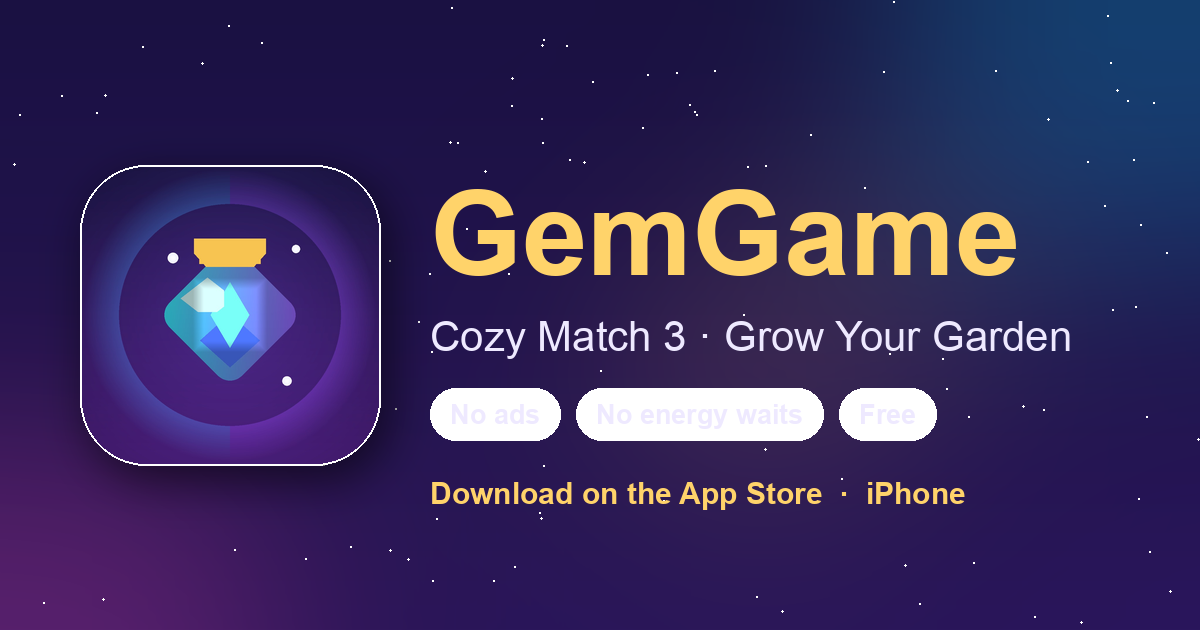
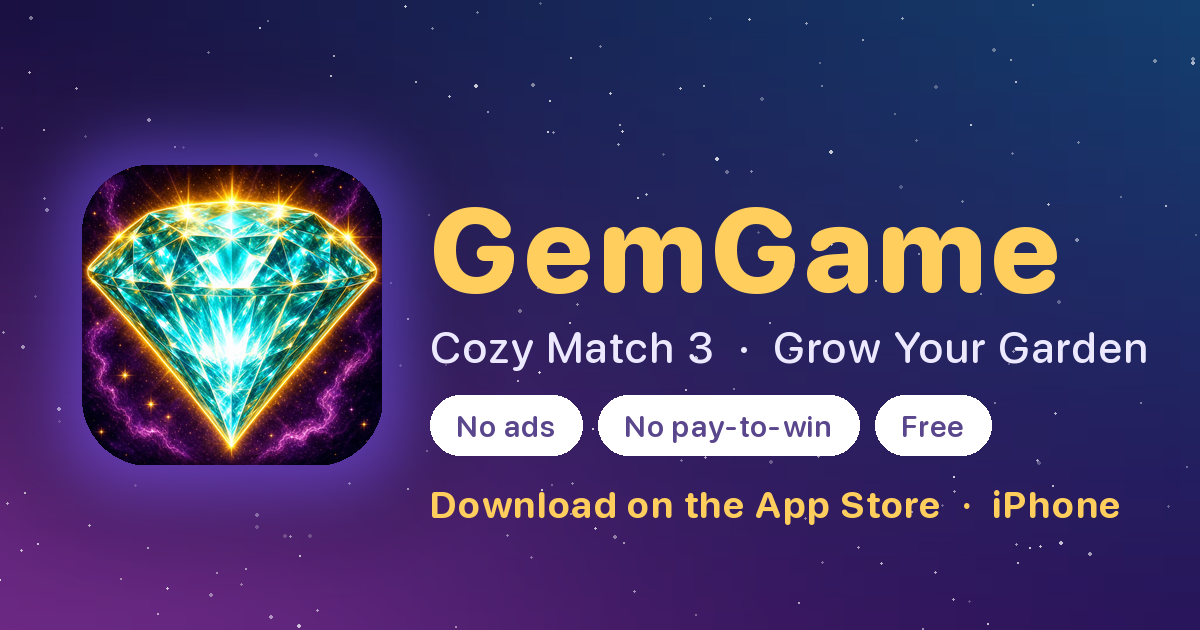
feat: Garden 2.0 site refresh — updates entry, garden page, honest dark OG cards
The 1.7.0 "Garden 2.0" app release turns the starlit garden into one living,
explorable scene (Map/Focus tabs gone), adds landmark tap-to-inspect, a golden
Next Step guide, per-district ambient celebrations, an affordable-upgrade badge
on the Level Map, full VoiceOver support, and a gemgame://garden deep link. The
public site needed to reflect that so search and social previews match the app.

- updates: new v1.7.0 Garden 2.0 release entry at the top; refreshed page
  descriptions + JSON-LD dateModified.
- garden: new "One living garden you explore" section plus intro/district copy
  describing the explorable scene, Next Step guide, celebrations and VoiceOver.
- OG cards (landing, garden, updates): regenerated to the current dark Galactic
  Casino theme with the live App Store icon, and — importantly — dropped the
  false "No energy" badge (the game has a lives gate) for honest "No pay-to-win".
- garden: removed borderline "online or off" offline claim.
- sitemap: bumped lastmod for the three touched URLs.

diff --git a/gemgame/garden/index.html b/gemgame/garden/index.html
@@ -4,7 +4,7 @@
 <meta charset="utf-8">
 <meta name="viewport" content="width=device-width, initial-scale=1">
 <title>GemGame Garden: Match 3 With Garden Building &amp; Stars</title>
-<meta name="description" content="Discover the GemGame garden: earn stars from match-3 levels to restore celestial districts like Starlight Promenade, then bank perks that boost your puzzle runs.">
+<meta name="description" content="Discover the GemGame garden: explore one living, starlit scene where stars from match-3 levels restore celestial districts like Starlight Promenade and bank perks that boost your puzzle runs.">
 <meta name="robots" content="index,follow,max-image-preview:large,max-snippet:-1">
 <link rel="canonical" href="https://georgepwall1991.github.io/fleet-commander-site/gemgame/garden/">
   <link rel="alternate" hreflang="en" href="https://georgepwall1991.github.io/fleet-commander-site/gemgame/garden/">
@@ -19,14 +19,14 @@
 <meta property="og:locale" content="en_US">
 <meta property="og:site_name" content="GemGame">
 <meta property="og:title" content="GemGame Garden: Match 3 With Garden Building &amp; Stars">
-<meta property="og:description" content="Discover the GemGame garden: earn stars from match-3 levels to restore celestial districts like Starlight Promenade, then bank perks that boost your puzzle runs.">
+<meta property="og:description" content="Discover the GemGame garden: explore one living, starlit scene where stars from match-3 levels restore celestial districts like Starlight Promenade and bank perks that boost your puzzle runs.">
 <meta property="og:url" content="https://georgepwall1991.github.io/fleet-commander-site/gemgame/garden/">
 <meta property="og:image" content="https://georgepwall1991.github.io/fleet-commander-site/gemgame/assets/og/garden.png">
 <meta property="og:image:width" content="1200">
 <meta property="og:image:height" content="630">
 <meta name="twitter:card" content="summary_large_image">
 <meta name="twitter:title" content="GemGame Garden: Match 3 With Garden Building &amp; Stars">
-<meta name="twitter:description" content="Discover the GemGame garden: earn stars from match-3 levels to restore celestial districts like Starlight Promenade, then bank perks that boost your puzzle runs.">
+<meta name="twitter:description" content="Discover the GemGame garden: explore one living, starlit scene where stars from match-3 levels restore celestial districts like Starlight Promenade and bank perks that boost your puzzle runs.">
 <meta name="twitter:image" content="https://georgepwall1991.github.io/fleet-commander-site/gemgame/assets/og/garden.png">
 <link rel="stylesheet" href="../assets/site.css">
 <link rel="icon" href="../assets/favicon.ico" sizes="any">
@@ -39,7 +39,7 @@
   "@type": "Article",
   "inLanguage": "en",
   "headline": "GemGame Garden: Match 3 With Garden Building & Stars",
-  "description": "Discover the GemGame garden: earn stars from match-3 levels to restore celestial districts like Starlight Promenade, then bank perks that boost your puzzle runs.",
+  "description": "Discover the GemGame garden: explore one living, starlit scene where stars from match-3 levels restore celestial districts like Starlight Promenade and bank perks that boost your puzzle runs.",
   "url": "https://georgepwall1991.github.io/fleet-commander-site/gemgame/garden/",
   "image": "https://georgepwall1991.github.io/fleet-commander-site/gemgame/assets/og/garden.png",
   "author": { "@type": "Person", "name": "George Wall" },
@@ -120,7 +120,7 @@
 <p class="eyebrow">The starlit garden</p>
 <div class="hero-copy">
 <h1>GemGame Garden: Match 3 With a Build-and-Restore Loop</h1>
-<p class="garden-intro">Most match-3 games end when the board clears. GemGame keeps going. Every star you earn solving puzzles becomes fuel for a second game layered on top of the first: restoring a sky-bound garden of celestial districts, one glowing tile at a time. It is a cozy, no-pressure meta-layer that gives your match-3 progress somewhere meaningful to go.</p>
+<p class="garden-intro">Most match-3 games end when the board clears. GemGame keeps going. Every star you earn solving puzzles becomes fuel for a second game layered on top of the first: restoring a sky-bound garden of celestial districts, one glowing tile at a time. It is a cozy, no-pressure meta-layer that gives your match-3 progress somewhere meaningful to go. As of the Garden 2.0 update it is one continuous, living scene you explore directly — pan across the sky, tap any landmark to see what it needs, and follow a golden Next Step guide to your next restoration.</p>
 <div class="button-row">
 <a class="appstore-badge" href="https://apps.apple.com/app/id6761720994" aria-label="Download on the App Store"><img src="../assets/app-store-badge.svg" alt="Download on the App Store" decoding="async"></a>
 <a class="button button-secondary" href="../guide/">Read the Guide</a>
@@ -144,9 +144,17 @@
 
 <section>
 <div class="section-head">
+<h2>One living garden you explore (Garden 2.0)</h2>
+</div>
+<p>The Garden 2.0 update turned the garden from a set of menus into a single explorable place. There are no separate Map and Focus tabs any more — you pan across one continuous starlit scene and interact with it directly. Tap a landmark and it tells you exactly what it needs to grow next, so it is always clear where your stars should go.</p>
+<p>A golden Next Step guide highlights your most affordable upgrade, giving you an easy thread to follow without hiding the rest of the garden. Districts you finish come alive with their own gentle ambient celebration, so completed areas keep rewarding you every time you visit. And because the whole scene is fully VoiceOver accessible, you can explore, hear each landmark, and restore the garden entirely by ear. You can jump straight here any time with the gemgame://garden link.</p>
+</section>
+
+<section>
+<div class="section-head">
 <h2>Celestial districts to restore</h2>
 </div>
-<p>The garden is divided into themed celestial districts, each with its own look and its own set of restoration projects. You work through them at your own pace, choosing what to rebuild next as your star balance grows.</p>
+<p>The garden is divided into themed celestial districts, each with its own look and its own set of restoration projects. You work through them at your own pace, tapping a landmark to see what it needs and choosing what to rebuild next as your star balance grows.</p>
 <ul class="district-list">
 <li><strong>Starlight Promenade</strong> — an early district of softly lit walkways and lanterns that reawaken as you spend stars, a gentle introduction to the building loop.</li>
 <li><strong>Moonpetal Square</strong> — a blossoming plaza where restored features bring the garden back to life with colour and movement.</li>
@@ -161,7 +169,7 @@
 </div>
 <p>The garden is not a closed-off scrapbook. Restoring districts unlocks perks that boost your puzzle runs, so the time you invest in building genuinely changes how the match-3 plays. That feedback is what turns the garden from decoration into strategy.</p>
 <p>This pairs naturally with the rest of GemGame's progression. Alongside the garden you have lives that refill over time, coins, and a booster shop stocked with the Hammer, Shuffle and Extra Moves boosters, plus an on-demand Hint when a board has you stuck. Daily rewards, missions and the Celestial Pass give you more ways to keep your star income flowing. The garden sits at the centre of all of it, the place where every reward eventually pays off.</p>
-<p class="notice">No ads and no pay-to-win. The garden grows on your schedule, online or off.</p>
+<p class="notice">No ads and no pay-to-win. The garden grows on your schedule.</p>
 </section>
 
 <section>

diff --git a/gemgame/updates/index.html b/gemgame/updates/index.html
@@ -4,7 +4,7 @@
   <meta charset="utf-8">
   <meta name="viewport" content="width=device-width, initial-scale=1">
   <title>GemGame Updates &amp; Release Notes — What's New on iPhone</title>
-  <meta name="description" content="GemGame updates and release notes. See what's new in each version of the cozy match 3 puzzle game for iPhone, from v1.0.1 garden polish back to the v1.0 launch.">
+  <meta name="description" content="GemGame updates and release notes. See what's new in each version of the cozy match 3 puzzle game for iPhone, from the v1.7.0 Garden 2.0 update back to the v1.0 launch.">
   <meta name="robots" content="index,follow,max-image-preview:large,max-snippet:-1">
   <link rel="canonical" href="https://georgepwall1991.github.io/fleet-commander-site/gemgame/updates/">
   <link rel="alternate" hreflang="en" href="https://georgepwall1991.github.io/fleet-commander-site/gemgame/updates/">
@@ -19,25 +19,25 @@
   <meta property="og:locale" content="en_US">
   <meta property="og:site_name" content="GemGame">
   <meta property="og:title" content="GemGame Updates &amp; Release Notes — What's New on iPhone">
-  <meta property="og:description" content="GemGame updates and release notes. See what's new in each version of the cozy match 3 puzzle game for iPhone, from v1.0.1 garden polish back to the v1.0 launch.">
+  <meta property="og:description" content="GemGame updates and release notes. See what's new in each version of the cozy match 3 puzzle game for iPhone, from the v1.7.0 Garden 2.0 update back to the v1.0 launch.">
   <meta property="og:url" content="https://georgepwall1991.github.io/fleet-commander-site/gemgame/updates/">
   <meta property="og:image" content="https://georgepwall1991.github.io/fleet-commander-site/gemgame/assets/og/updates.png">
   <meta property="og:image:width" content="1200">
   <meta property="og:image:height" content="630">
   <meta name="twitter:card" content="summary_large_image">
   <meta name="twitter:title" content="GemGame Updates &amp; Release Notes — What's New on iPhone">
-  <meta name="twitter:description" content="GemGame updates and release notes. See what's new in each version, from the v1.0.1 garden polish back to the v1.0 launch on iPhone.">
+  <meta name="twitter:description" content="GemGame updates and release notes. See what's new in each version, from the v1.7.0 Garden 2.0 update back to the v1.0 launch on iPhone.">
   <meta name="twitter:image" content="https://georgepwall1991.github.io/fleet-commander-site/gemgame/assets/og/updates.png">
   <script type="application/ld+json">
   {
     "@context": "https://schema.org",
     "@type": "Article",
     "headline": "GemGame Updates & Release Notes",
-    "description": "Reverse-chronological release notes for GemGame, a cozy match 3 puzzle game for iPhone, covering version 1.0.1 and the version 1.0 launch.",
+    "description": "Reverse-chronological release notes for GemGame, a cozy match 3 puzzle game for iPhone, from the version 1.7.0 Garden 2.0 update back to the version 1.0 launch.",
     "url": "https://georgepwall1991.github.io/fleet-commander-site/gemgame/updates/",
     "image": "https://georgepwall1991.github.io/fleet-commander-site/gemgame/assets/og/updates.png",
     "datePublished": "2026-05-28",
-    "dateModified": "2026-05-28",
+    "dateModified": "2026-07-06",
     "inLanguage": "en_US",
     "author": {
       "@type": "Person",
@@ -155,6 +155,30 @@
         manually. Spotted something off after an update? Please
         <a href="../support/">report it on the support page</a>.
       </section>
+
+      <article class="card release" aria-labelledby="v1-7-0">
+        <div class="release-head">
+          <h2 id="v1-7-0">Garden 2.0 — one living, explorable garden</h2>
+          <span class="version-tag">v1.7.0</span>
+          <span class="release-date"><time datetime="2026-07-06">Rolling out July 2026</time></span>
+        </div>
+        <p class="release-context">
+          The biggest garden update yet. The starlit garden is no longer split across
+          separate Map and Focus tabs — it is now one continuous scene you explore directly,
+          tapping landmarks to see what each one needs and watching finished districts come
+          alive. The rest of the update is a broad stability pass so every session feels solid.
+        </p>
+        <ul>
+          <li>The garden is now a single living scene you pan and explore — the old Map and Focus tabs are gone.</li>
+          <li>Tap any landmark to see exactly what it needs to grow next.</li>
+          <li>A golden Next Step guide points you toward your most affordable upgrade.</li>
+          <li>Districts you finish shimmer with their own ambient celebration.</li>
+          <li>An affordable-upgrade badge on the Level Map's garden button shows when a step is within reach.</li>
+          <li>The whole garden is now fully VoiceOver accessible.</li>
+          <li>A new gemgame://garden deep link jumps straight to the garden.</li>
+          <li>Stability pass across saves, input handling, and board visuals.</li>
+        </ul>
+      </article>
 
       <article class="card release" aria-labelledby="v1-0-1">
         <div class="release-head">
